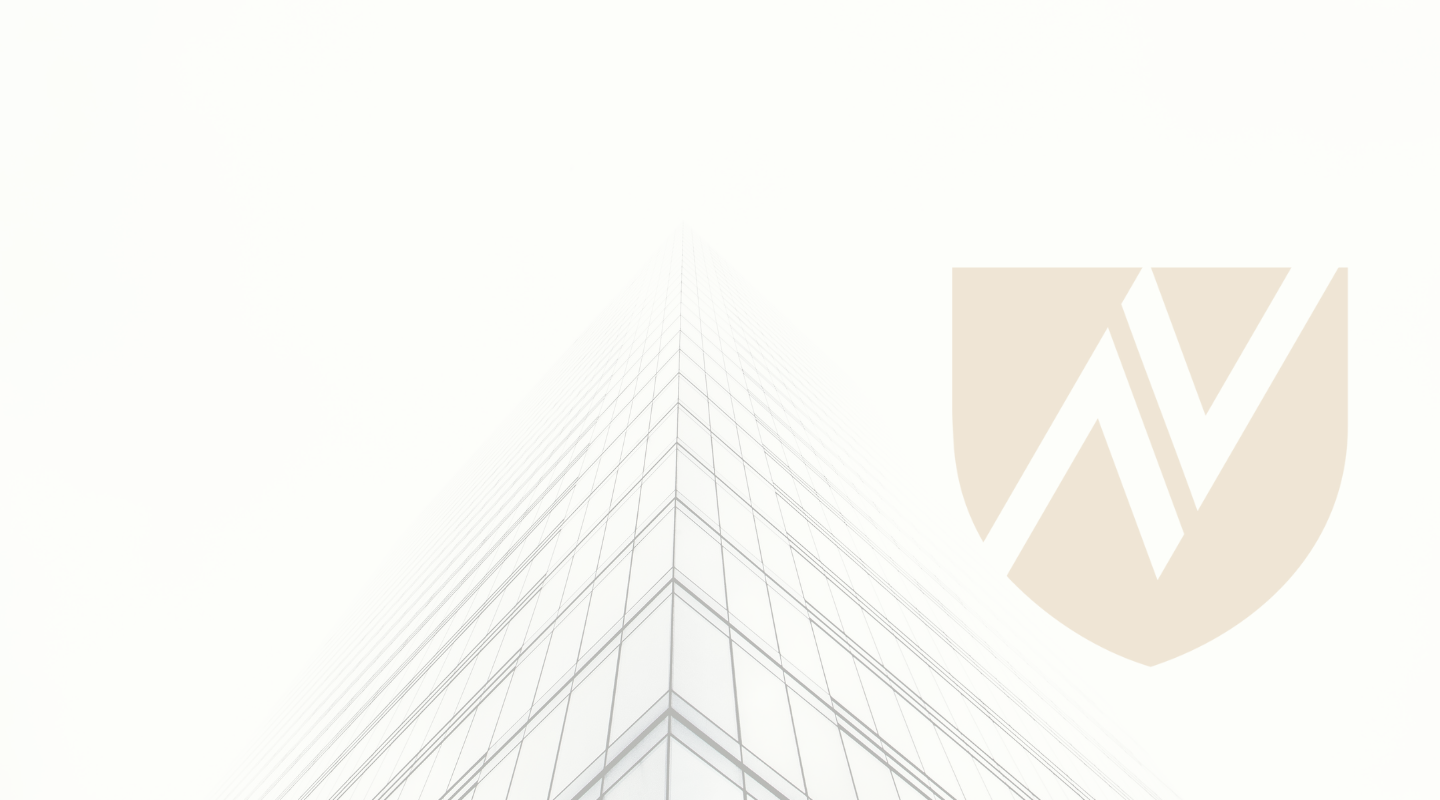
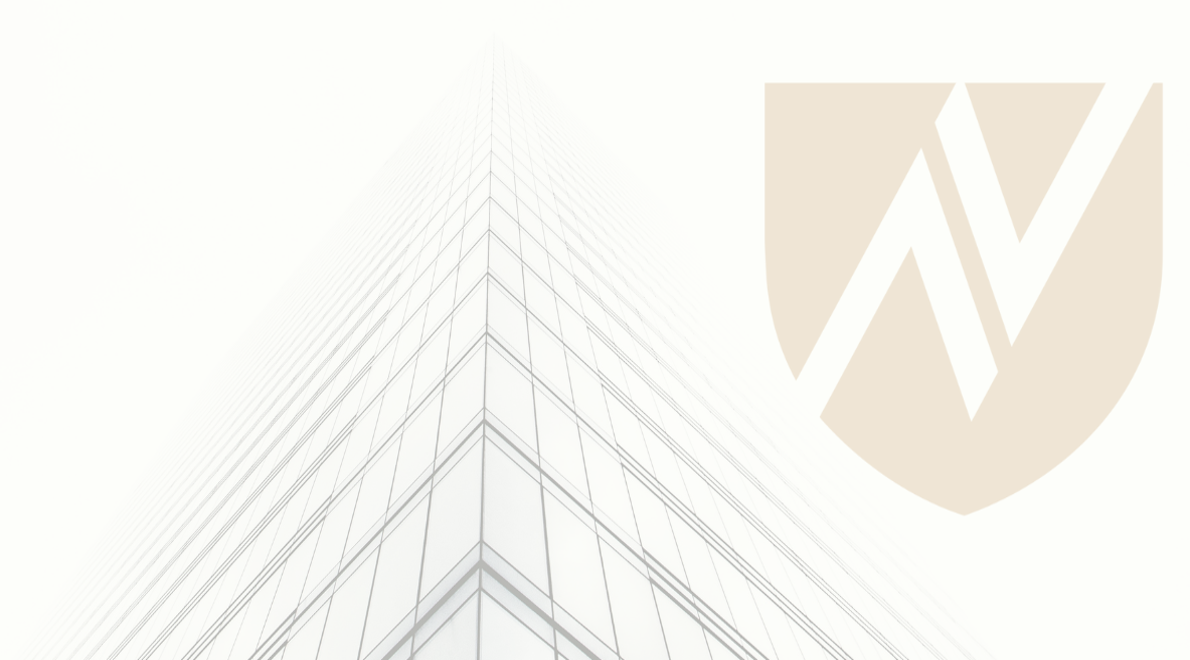
fixing some background-images. Implementing fourth page in mobile and desktop

diff --git a/styles/style.css b/styles/style.css
@@ -64,15 +64,12 @@
 }
 
 .intro-container {
-    margin-top: 30px;
     max-width: 1500px;
     margin: 30px auto 0;
-    background-image: url('../assets/img/background-first.png');
-    background-position: center;
-    background-size: cover;
-    height: 500px;
+    background-color: var(--cream);
     display: flex;
     align-items: center;
+    padding: 30px 0;
 }
 
 .intro-content-container {
@@ -230,6 +227,177 @@
     line-height: 22px;
 }
 
+/* ================= PAGE 4 MOBILE =====================*/
+.keep-up {
+    background-color: var(--cream);
+    padding: 30px 10px;
+    max-width: 1500px;
+    margin: 0 auto;
+}
+
+.keep-up-content-container {
+    max-width: 500px;
+    margin: 0 auto;
+}
+
+.keep-up-title {
+    color: var(--blue);
+    font-size: 45px;
+}
+
+.keep-up-text {
+    color: var(--dark-gold);
+    font-weight: bold;
+    font-size: 32px;
+    margin: 15px 0;
+}
+
+.keep-up-contact-wpp {
+    background-color: var(--dark-gold);
+    color: #FFF;
+    font-weight: bold;
+    padding: 5px 10px;
+    font-size: 18px;
+}
+
+.keep-up-images-container {
+    max-width: 770px;
+    margin-top: 35px;
+}
+
+.keep-up-facebook {
+    width: 90vw;
+    max-width: 270px;
+    background-color: var(--dark-gold);
+    border-radius: 10px;
+    padding: 8px;
+    margin: 0 auto;
+}
+
+.keep-up-facebook-title {
+    color: #FFF;
+    font-weight: bold;
+    text-align: center;
+}
+
+.keep-up-facebook-image-container {
+    background-color: var(--black-background);
+    color: #FFF;
+    border-radius: 10px;
+    padding: 1px 10px 0;
+    margin-top: 15px;
+}
+
+.keep-up-facebook-top-part {
+    display: flex;
+    margin: 7px 0 10px;
+    align-items: center;
+    justify-content: space-between;
+}
+
+.keep-up-facebook-left-arrow, .keep-up-facebook-search {
+    font-size: 12px;
+}
+
+.keep-up-facebook-input-container {
+    background-color: #333;
+    padding: 5px 10px;
+    border-radius: 10px;
+}
+
+.keep-up-facebook-search-text {
+    font-size: 12px;
+}
+
+.keep-up-facebook-figure, .keep-up-facebook-image {
+    width: 100%;
+}
+
+.keep-up-facebook-bottom {
+    display: flex;
+    align-items: center;
+    margin-top: 4px;
+}
+
+.keep-up-facebook-bottom-figure {
+    background-color: var(--cream);
+    width: 46px;
+    height: 32px;
+    overflow: hidden;
+    display: flex;
+    justify-content: center;
+    align-items: center;
+    border-radius: 50%;
+}
+
+.keep-up-image-bottom-logo {
+    width: 50px;
+    height: 20px;
+} 
+
+.keep-up-facebook-info {
+    margin-left: 15px;
+}
+
+.keep-up-facebook-info-title {
+    font-size: 15px;
+}
+
+.keep-up-facebook-info-text, .keep-up-facebook-info-time {
+    font-size: 12px;
+    color: #9c9c9c;
+    margin: 10px 0;
+}
+
+.keep-up-facebook-status {
+    color: green;
+    font-weight: bold;
+}
+
+.keep-up-facebook-like-container, .keep-up-facebook-like {
+    font-size: 11px;
+    color: var(--like-blue);
+}
+
+.keep-up-facebook-like-container {
+    text-align: center;
+}
+
+.keep-up-instagram {
+    background-color: var(--dark-gold);
+    border-radius: 10px;
+    margin: 30px auto 0px;
+    padding: 15px 10px;
+    width: 100vw;
+    max-width: 300px;
+}
+
+.keep-up-instagram-inner-container {
+    background-color: #FFF;
+    padding: 10px 10px 0;
+    border-radius: 10px;
+}
+
+.keep-up-instagram-follow {
+    color: var(--dark-gold);
+    font-weight: bold;
+    font-size: 19px;
+}
+
+.keep-up-instagram-address {
+    color: var(--blue);
+    font-weight: bold;
+    margin: 5px 0;
+}
+
+.keep-up-instagram-figure {
+    text-align: center;
+}
+
+.keep-up-instagram-image {
+    width: 255px;
+}
+
 /* ================ HEADER DESKTOP =================  */
 @media only screen and (min-width: 950px) {
     .header-container {
@@ -267,11 +435,17 @@
     }
 }
 
-@media only screen and (min-width: 950px) {
+@media only screen and (min-width: 750px) {
     .intro-container {
-        height: 700px;
+        background-image: url('../assets/img/background-first.png');
+        background-position: center;
+        background-size: cover;
+        padding: 0 0 60px;
+        margin: 25px auto 0;
     }
+}
 
+@media only screen and (min-width: 950px) {
     .intro-content-container {
         margin-top: 115px;
     }
@@ -336,5 +510,56 @@
 
     .area-contact-wpp {
         font-size: 22px;
+    }
+}
+
+/* ============ PAGE 4 DESKTOP =============== */
+@media only screen and (min-width: 750px) {
+    .keep-up {
+        background-image: url('../assets/img/background-fourth.png');
+        background-size: cover;
+    }
+}
+
+@media only screen and (min-width: 1120px) {
+    .content-limiter-keep-up {
+        height: 550px;
+        align-items: center;
+    }
+    
+    .content-limiter-keep-up {
+        display: flex;
+    }
+
+    .keep-up-text {
+        margin: 30px 0;
+    }
+
+    .keep-up-facebook {
+        margin: 0;
+    }
+}
+
+
+@media only screen and (min-width: 365px) {
+    .keep-up-facebook-top-part {
+        justify-content: space-around;
+    }
+}
+
+@media only screen and (min-width: 590px) {
+    .keep-up-contact-wpp {
+        font-size: 22px;
+    }
+    
+    .keep-up-images-container {
+        display: flex;
+        justify-content: space-between;
+        flex-basis: 60%;
+        margin: 35px auto 0;
+    }
+
+    .keep-up-instagram {
+        margin: 0;
     }
 }

diff --git a/index.html b/index.html
@@ -223,7 +223,7 @@
       </section>
 
       <section class = 'keep-up'>
-        <div class = 'content-limiter'>
+        <div class = 'content-limiter content-limiter-keep-up'>
 
           <div class = 'keep-up-content-container'>
             <h3 class = 'keep-up-title'>
@@ -237,27 +237,71 @@
             </a>
           </div>
 
-          <!-- Começo Imagem Menor -->
-          <div class = 'keep-up-facebook'>
-            <p class = 'keep-up-facebook-title'> ACOMPANHE NO FACEBOOK </p>
+          <div class = 'keep-up-images-container'>
+            <!-- Começo Imagem Menor -->
+            <div class = 'keep-up-facebook'>
+              <p class = 'keep-up-facebook-title'> ACOMPANHE NO FACEBOOK </p>
 
-            <div class = 'keep-up-facebook-image-container'>  
-              <div class = 'keep-up-facebook-top-part'>
-                <i class="fa-solid fa-chevron-left keep-up-facebook-left-arrow"></i>
-                <div class = 'keep-up-facebook-input-container'>
-                  <i class="fa-solid fa-magnifying-glass keep-up-facebook-search"></i>
-                  <p class = 'keep-up-facebook-search-text'> Noschang Advocacia Tributária </p>
+              <div class = 'keep-up-facebook-image-container'>  
+                <div class = 'keep-up-facebook-top-part'>
+                  <i class="fa-solid fa-chevron-left keep-up-facebook-left-arrow"></i>
+                  <div class = 'keep-up-facebook-input-container'>
+                    <i class="fa-solid fa-magnifying-glass keep-up-facebook-search"></i>
+                    <span class = 'keep-up-facebook-search-text'> Noschang Advocacia Tributária </span>
+                  </div>
+                </div>
+
+                <figure class = 'keep-up-facebook-figure'>
+                  <img src="./assets/img/visit-facebook.png" 
+                    alt="visit-facebook"
+                    class = 'keep-up-facebook-image'>
+                </figure>
+
+                <div class = 'keep-up-facebook-bottom'> 
+                  <figure class = 'keep-up-facebook-bottom-figure'>
+                    <img 
+                      src="./assets/img/logo-header.png" 
+                      alt="logo" 
+                      class = 'keep-up-image-bottom-logo'>
+                  </figure>
+                  <div class = 'keep-up-facebook-info'>
+                    <h4 class = 'keep-up-facebook-info-title'>
+                      Noschang Adovcacia Tributária 
+                    </h4> 
+                    <p class = 'keep-up-facebook-info-text'> 
+                      Advogado e escritório de advocacia 
+                    </p>
+                    <p class = 'keep-up-facebook-info-time'>
+                      <span class = 'keep-up-facebook-status'> Aberto agora </span>
+                      09:00 às 18:00
+                    </p>
+                  </div>
+                  <p class = 'keep-up-facebook-like-container'>
+                    <i class="fa-solid fa-thumbs-up keep-up-facebook-like"></i>
+                    <span class = 'keep-up-facebook-like-container'> Curtir </span>
+                  </p>
                 </div>
               </div>
-
-              <figure class = 'keep-up-facebook-figure'>
-                <img src="./assets/img/visit-facebook.png" 
-                  alt="visit-facebook"
-                  class = 'keep-up-facebook-image'>
-              </figure>
             </div>
-          </div>
+            <!-- Final imagem menor -->
 
+            <!-- Começo Imagem Maior -->
+            <div class = 'keep-up-instagram'>
+              <div class = 'keep-up-instagram-inner-container'> 
+
+                <p class = 'keep-up-instagram-follow'> NOS SIGA NO INSTAGRAM </p>
+                <p class = 'keep-up-instagram-address'> @noschangadvocaciatributaria </p>
+                <figure class = 'keep-up-instagram-figure'>
+                  <img 
+                    class = 'keep-up-instagram-image'
+                    src = './assets/img/visit-instagram.png' 
+                    alt="visit-instagram">
+                </figure>
+              </div>
+
+            </div>
+            <!-- Começo Imagem Menor -->
+          </div>
         </div>
 
       </section>

diff --git a/styles/reset.css b/styles/reset.css
@@ -3,6 +3,9 @@
     --dark-gold: #b6935e;
     --light-gold: #c8a673;
     --cream: #f8f1e7;
+    --black-background: #212121;
+    --grey-letter: #9c9c9c;
+    --like-blue: #0089ff;
 }
 
 html {
@@ -10,7 +13,7 @@ html {
     font-family: Arial, Helvetica, sans-serif;
 }
 
-html, body, header, nav, ul, li, i, figure, img, div, p, span, h1 ,h2, h3, button,
+html, body, header, nav, ul, li, i, figure, img, div, p, span, h1 ,h2, h3, h4, button,
 a, article, section, main {
     margin: 0;
     padding: 0;
